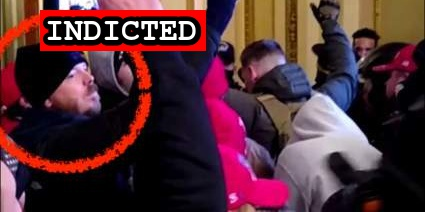
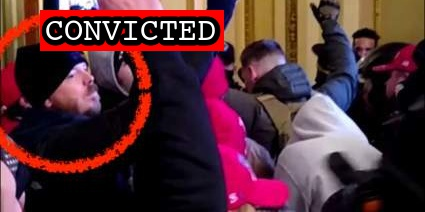
Reid conviction

Changed region(s): [[0.0918, 0.0283, 0.5506, 0.2547]]

diff --git a/docs/_suspects/william-reid.md b/docs/_suspects/william-reid.md
@@ -4,15 +4,16 @@ lastName: Reid
 hashtag: WilliamRoganReid
 aka: blumpkinvice
 residence: Florida
-status: Indicted
+status: Convicted
 date: 2021-03-26
 charged: 2021-03-26
 indicted: 2021-04-23
-convicted:
+convicted: 2022-08-23
+acquitted:
 sentenced:
 dismissed:
 deceased:
-plea_hearing:
+plea_hearing: 2022-08-23
 trial_date: 2022-08-23
 trial_type: Stipulated Bench Trial
 sentencing: 2022-12-07
@@ -36,7 +37,6 @@ published: true
 caseNumber: 1:21-cr-316
 videos:
 charges:
-sentence:
   - code: 18 USC § 1752(a)(1)
     title: Entering a restricted building or grounds
     url: https://www.law.cornell.edu/uscode/text/18/1752
@@ -57,6 +57,7 @@ sentence:
     title: Corruptly Altering, Destroying, Mutilating, or Concealing a Record, Document or Other Object
     url: https://www.law.cornell.edu/uscode/text/18/1512
     felony: true
+sentence:
 ---
 
 - [News Report](https://www.nbcmiami.com/news/local/davie-man-arrested-in-capitol-riot-faces-cyberstalking-charge-in-south-florida/2420522/)
